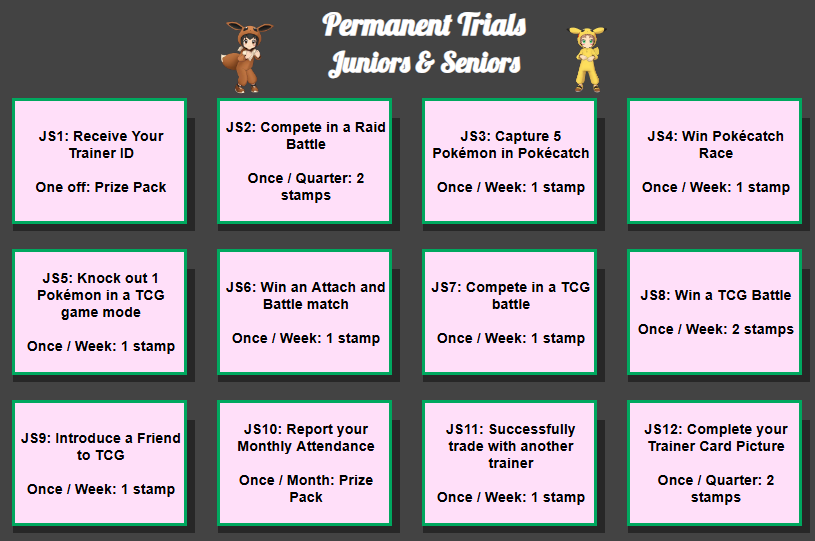
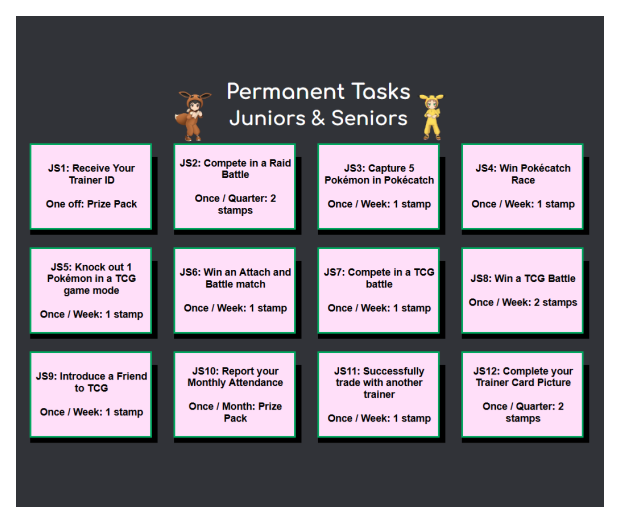
Graphics update
Updated the background colouring and sizing on all graphics. Condensed the weekly and monthly into a single image

diff --git a/index.html b/index.html
@@ -11,10 +11,9 @@
         <!-- Slideshow Container -->
         <div class="slideshow-container">
             <img src="https://wipedout36.github.io/images/discord-links.png" class="active" alt="Discord Links">
-            <img src="https://wipedout36.github.io/images/weekly.png" alt="WC 9/11/24 Trials">
-            <img src="https://wipedout36.github.io/images/monthly.png" alt="November Monthly Tasks">
-            <img src="https://wipedout36.github.io/images/jun-sen-perma-challenge.png" alt="Permanent Trials - Juniors & Seniors">
-            <img src="https://wipedout36.github.io/images/masters-perma-challenge.png" alt="Permanent Trials - Masters">
+            <img src="https://wipedout36.github.io/images/rotated-tasks.png" alt="November Monthly & WC 9/11/24 Tasks">
+            <img src="https://wipedout36.github.io/images/jun-sen-perma-challenge.png" alt="Permanent Tasks - Juniors & Seniors">
+            <img src="https://wipedout36.github.io/images/masters-perma-challenge.png" alt="Permanent Tasks - Masters">
         </div>
         <!-- Timer Container with Toggle Button -->
         <div class="timer-container" id="timer-container" style="display: none;">
